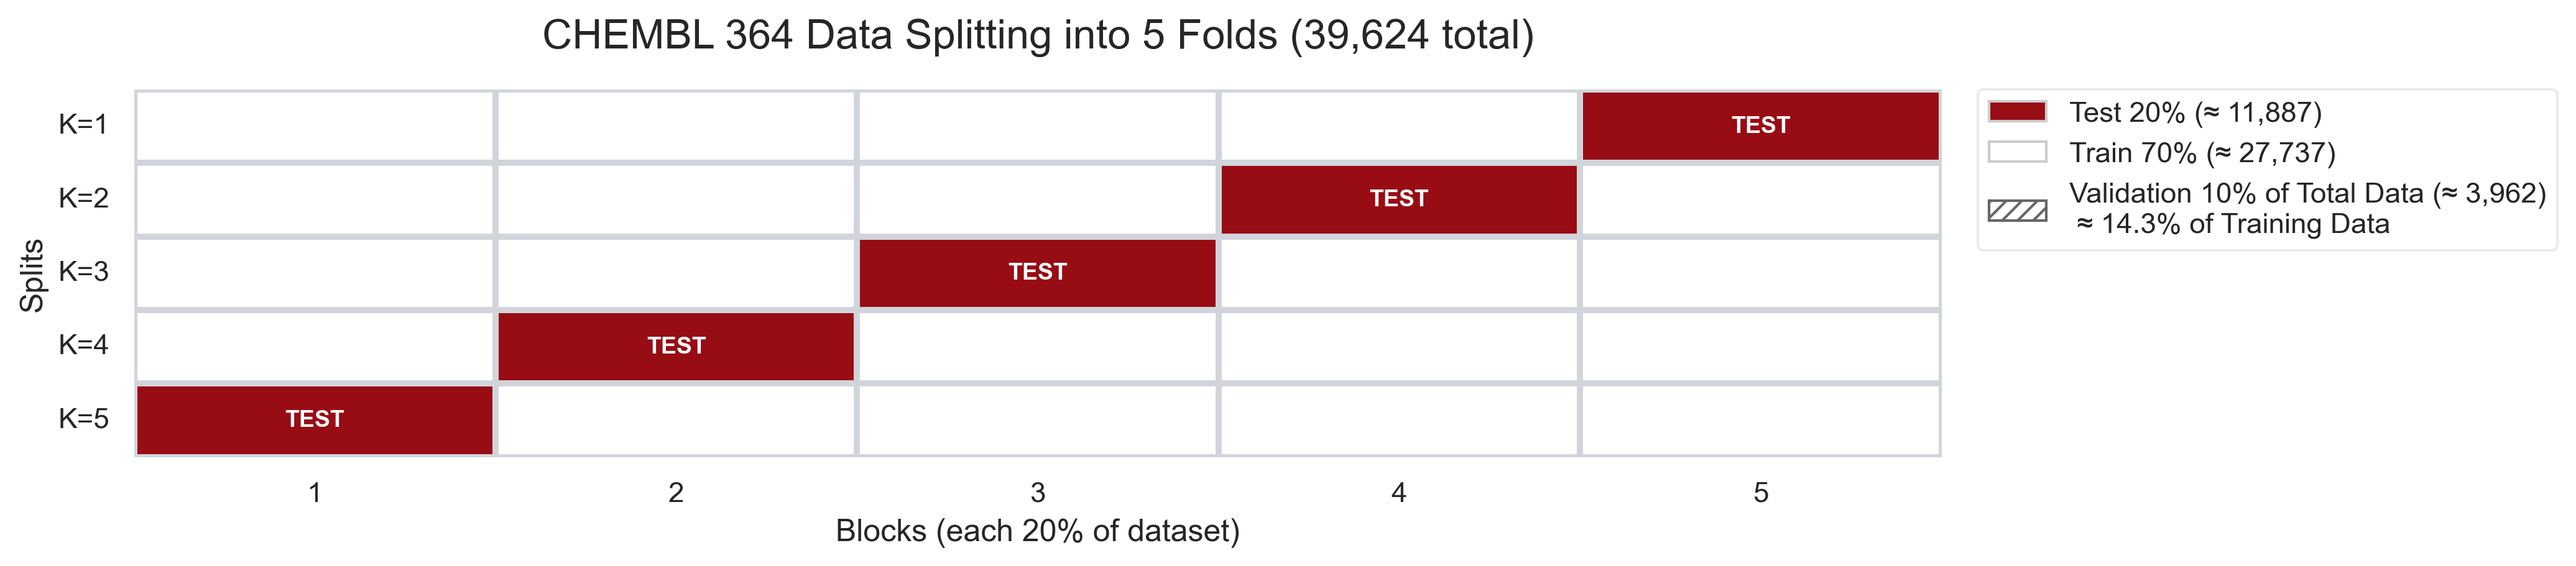
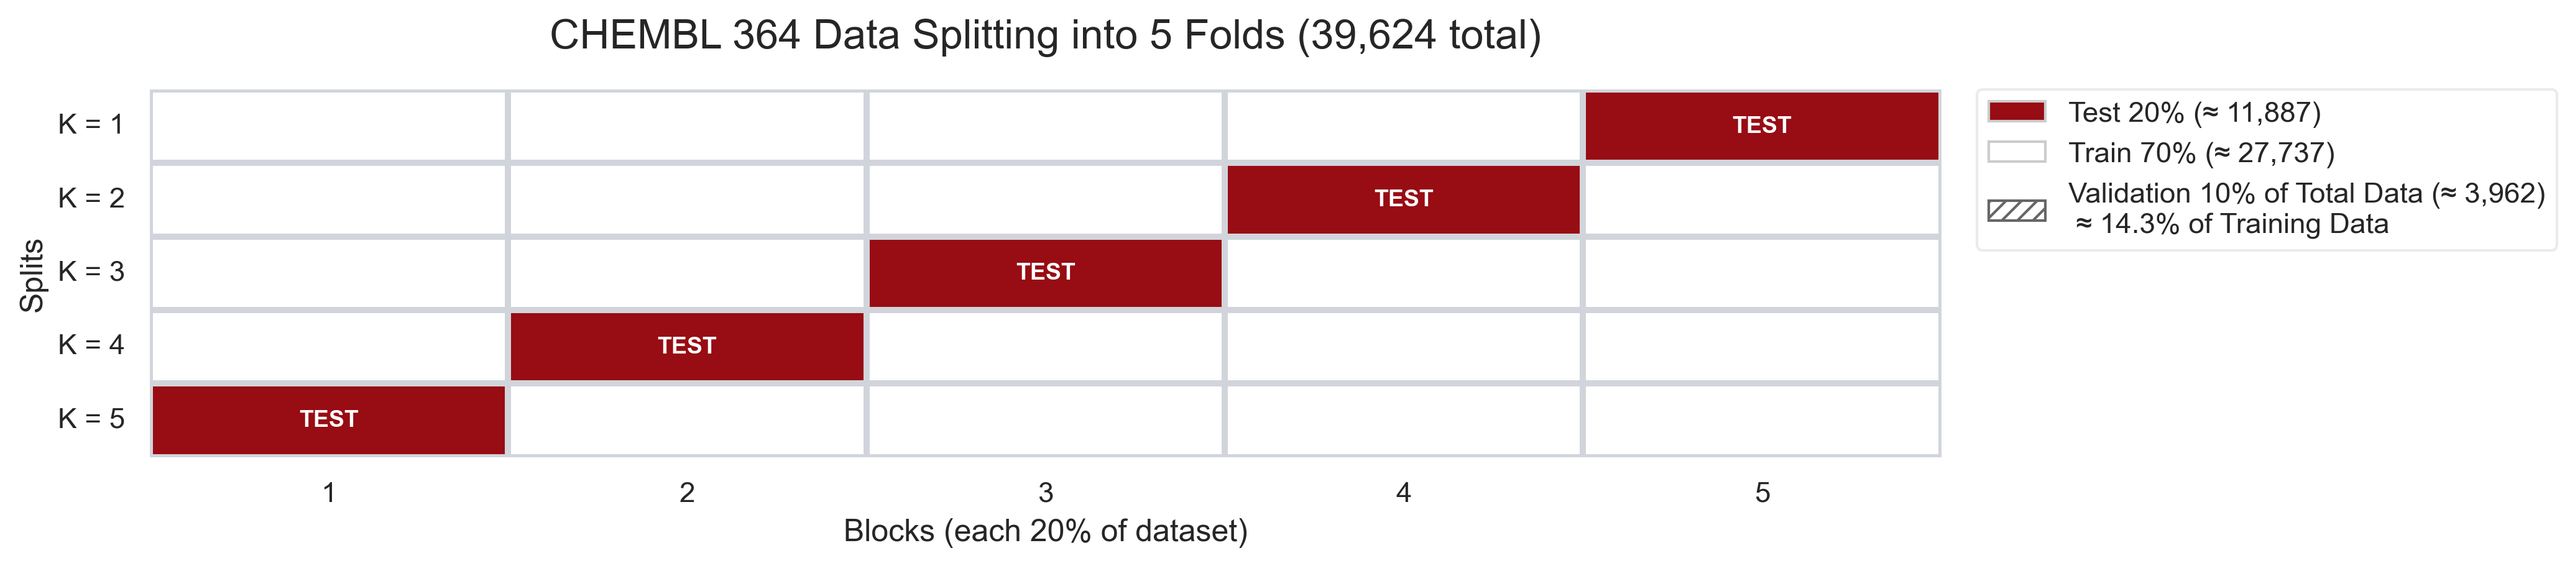
finished splits data visual comment

diff --git a/p1_preprocessing/5 - Data visualizations after splits /splits_data_visualization/splits_data_vis.py b/p1_preprocessing/5 - Data visualizations after splits /splits_data_visualization/splits_data_vis.py
@@ -1,41 +1,38 @@
 """
-Data Split Graphic (Seaborn + Reds palette)
-- 5 splits (K=1..5)
+Data Split Graphic, illustrates:
+- 5 splits (K = 1, 2, 3, 4, 5)
 - Each split shows 5 equal blocks (each 20% of total data)
-- The designated test block shifts from block 5 down to 1 across K=1..5
-- Test uses seaborn 'Reds' (deep red); training blocks are white
-- Validation: 10% of the TRAINING set (subset of train; not shown in the heatmap)
-This script saves a high-res PNG.
-"""
+- The designated test block shifts from block 5 down to 1 across K fold
+- Validation: 10% of the TRAINING set
 
+No requirements
+"""
 import numpy as np
 import matplotlib.pyplot as plt
 import seaborn as sns
 import matplotlib.patches as mpatches
 from matplotlib.colors import ListedColormap
 
-# --- Parameters ---
+# Parametes
 TOTAL = 39_624
 FOLDS = 5
 TRAIN_PCT = 0.70
 TEST_PCT = 0.20
-VAL_FRAC_OF_TRAIN = 0.10  # 10% of the training set
+VAL_FRAC_OF_TRAIN = 0.10 # 10% of the training set
 
-# For K = 1..5, test block indices (1-indexed) are [5,4,3,2,1]
 TEST_BLOCKS = [5, 4, 3, 2, 1]
 
-# --- Build a binary matrix where rows=K, cols=blocks ---
-# 0 = Train (white), 1 = Test (red)
+# Generate a binary matrix where rows=K, cols=blocks 
 M = np.zeros((FOLDS, FOLDS), dtype=int)
 for k_idx, test_block in enumerate(TEST_BLOCKS):
     M[k_idx, test_block - 1] = 1
 
-# --- Plot ---
+# Plot
 sns.set_theme(style="white")
 fig, ax = plt.subplots(figsize=(14, 3.2))
 
 cmap_reds = sns.color_palette("Reds", as_cmap=True)
-test_color = cmap_reds(0.90)  # deep red for test
+test_color = cmap_reds(0.90) # deep red for test
 cmap = ListedColormap(["#ffffff", test_color])
 
 sns.heatmap(
@@ -43,22 +40,22 @@ sns.heatmap(
     cmap=cmap,
     cbar=False,
     linewidths=2,
-    linecolor="#d1d5db",  # visible grid so white cells are distinct
+    linecolor="#d1d5db", # grid lines
     ax=ax,
     vmin=0,
     vmax=1,
 )
 
-# Subtle off-white background so white cells stand out
+# Off-white background
 ax.set_facecolor("#f8fafc")
 
-# Axes labels & ticks
+# Axes labels and ticks
 ax.set_xlabel("Blocks (each 20% of dataset)")
 ax.set_ylabel("Splits")
 ax.set_xticks(np.arange(FOLDS) + 0.5)
-ax.set_xticklabels([str(i) for i in range(1, FOLDS + 1)], rotation=0)
+ax.set_xticklabels([str(i) for i in range(1,FOLDS + 1)], rotation = 0)
 ax.set_yticks(np.arange(FOLDS) + 0.5)
-ax.set_yticklabels([f"K={k}" for k in range(1, FOLDS + 1)], rotation=0)
+ax.set_yticklabels([f"K = {k}" for k in range(1,FOLDS + 1)], rotation = 0)
 
 # Annotate test cells
 for i in range(FOLDS):
@@ -72,14 +69,13 @@ for i in range(FOLDS):
                 va="center",
                 fontsize=9,
                 color="white",
-                fontweight="bold",
-            )
+                fontweight="bold")
 
-# Title & legend numbers
+# Title and legend numbers
 train_n = round(TOTAL * TRAIN_PCT)
-test_n  = TOTAL - train_n
-val_n   = round(TOTAL * VAL_FRAC_OF_TRAIN)              # 10% of TRAINING set
-val_pct_of_total = (val_n / train_n) * 100                  # ≈12% of total
+test_n = TOTAL - train_n
+val_n = round(TOTAL * VAL_FRAC_OF_TRAIN) # 10% of TRAINING set
+val_pct_of_total = (val_n / train_n) * 100 # ≈12% of total
 
 title = f"CHEMBL 364 Data Splitting into 5 Folds ({TOTAL:,} total)"
 ax.set_title(title, loc="center", fontsize=16, pad=16)
@@ -91,13 +87,13 @@ legend_handles = [
     mpatches.Patch(facecolor="#ffffff", edgecolor="#cccccc",
                    label=f"Train {int(TRAIN_PCT*100)}% (≈ {train_n:,})"),
     mpatches.Patch(facecolor="#ffffff", edgecolor="#666666", hatch="////", linewidth=1.0,
-                   label=f"Validation 10% of Total Data (≈ { val_n:,})\n ≈ {val_pct_of_total:.1f}% of Training Data"),
-]
+                   label=f"Validation 10% of Total Data (≈ { val_n:,})\n ≈ {val_pct_of_total:.1f}% of Training Data")]
+
 leg = ax.legend(handles=legend_handles, bbox_to_anchor=(1.02, 1),
                 loc="upper left", borderaxespad=0.0)
 leg.get_frame().set_facecolor("white")
 leg.get_frame().set_edgecolor("#e5e7eb")
 
 plt.tight_layout()
-plt.savefig("/Users/victoriamedina/Thesis_Project/thesis/p1_preprocessing/5 - Data visualizations after splits /splits_data_visualization/splits_data_vis.png", dpi=300, bbox_inches="tight")
+plt.savefig("./p1_preprocessing/5 - Data visualizations after splits /splits_data_visualization/splits_data_vis.png", dpi=300, bbox_inches="tight")
 plt.show()

diff --git a/p1_preprocessing/5 - Data visualizations after splits /loss_dmpnn_early_stopping_visual/loss_ealy_stop_vis.py b/p1_preprocessing/5 - Data visualizations after splits /loss_dmpnn_early_stopping_visual/loss_ealy_stop_vis.py
@@ -1,0 +1,99 @@
+"""
+Chemprop (D-MPNN) Early Stopping Visualization
+
+In Chemprop/D-MPNN, early stopping watches the validation metric. It keeps the best-so-far checkpoint (lowest validation loss 
+or highest val score). If the validation metric doesn't improve in patience epochs, training stops, and the model restores 
+the best checkpoint. Then it will evaluate the test set once with the restored model.
+
+What this figure shows:
+- Training loss (gray, dashed) usually keeps decreasing.
+- Validation loss (red) decreases then rises (overfitting).
+- Best epoch (minimum validation loss) is marked with a red dot and dotted red vline.
+- Training stops later when patience expires.
+- The red shaded region between is the no-improvement window (patience).
+- The test metric is evaluated once at the best epoch (yellow star).
+
+Save: PNG (uncomment SVG for vector).
+"""
+
+
+import numpy as np
+import matplotlib.pyplot as plt
+
+# --------------------------
+# 1) Synthetic demo curves (replace with real logs if available)
+# --------------------------
+rng = np.random.default_rng(7)
+epochs = np.arange(1, 151)
+
+# Training loss: monotonic-ish decay + small noise
+train_loss = 1.5 * np.exp(-epochs / 40) + 0.02 * rng.normal(size=epochs.size) + 0.10
+
+# Validation loss: decays then rises (overfitting)
+val_loss = 1.6 * np.exp(-epochs / 45) + 0.02 * rng.normal(size=epochs.size) + 0.12
+val_loss += 0.0006 * np.maximum(0, (epochs - 85)) ** 1.6  # upturn after ~85
+
+best_idx = int(np.argmin(val_loss))
+best_epoch = int(epochs[best_idx])
+
+# Patience setting (Chemprop-style)
+patience = 15
+stop_epoch = min(epochs[-1], best_epoch + patience)
+
+# A single test measurement at the best epoch (demo value near val best)
+test_at_best = val_loss[best_idx] + 0.03
+
+# --------------------------
+# 2) Plot
+# --------------------------
+# Colors
+train_color = "0.35"          # gray
+val_color   = "#b91c1c"       # red
+star_color  = "#facc15"       # yellow
+shade_color = "#fecaca"       # light red for no-improvement window
+stop_color  = "#6b7280"       # gray for stop vline
+
+plt.rcParams.update({
+    "axes.spines.top": False, "axes.spines.right": False,
+    "axes.grid": True, "grid.alpha": 0.25, "grid.linestyle": "-"
+})
+
+fig, ax = plt.subplots(figsize=(10, 5.2))
+
+# Curves
+ax.plot(epochs, train_loss, linestyle="--", linewidth=2.0,
+        color=train_color, label="Train loss")
+ax.plot(epochs, val_loss, linewidth=2.6, color=val_color,
+        marker="o", markevery=6, markersize=4, label="Validation loss")
+
+# Best epoch markers
+ax.scatter([best_epoch], [val_loss[best_idx]], s=90, facecolor=val_color,
+           edgecolors="white", linewidth=0.8, zorder=5, label="Best (min validation)")
+ax.axvline(best_epoch, color=val_color, linestyle=":", linewidth=1.8)
+
+# No-improvement window (patience) and stop epoch
+ax.axvspan(best_epoch, stop_epoch, color=shade_color, alpha=0.25,
+           label=f"No improvement for {patience} epochs")
+ax.axvline(stop_epoch, color=stop_color, linestyle="--", linewidth=1.8)
+ax.text(stop_epoch + 1, ax.get_ylim()[0] + 0.03*(ax.get_ylim()[1]-ax.get_ylim()[0]),
+        "training stops", color=stop_color, fontsize=9, rotation=90, va="center")
+
+
+# Test at best epoch (single yellow star)
+ax.scatter([best_epoch], [test_at_best], s=200, marker="*",
+           facecolor=star_color, edgecolors="white", linewidth=0.9,
+           zorder=6, label="Test (evaluated at best epoch)")
+
+# Handy labels
+ax.set_xlabel("Epoch")
+ax.set_ylabel("Loss (lower is better)")  # rename/invert if using a higher-is-better metric
+ax.set_title("Chemprop (D-MPNN): Early stopping driven by validation", loc="left")
+
+# Legend
+leg = ax.legend(frameon=True, framealpha=0.96, facecolor="white", loc="upper right")
+leg.get_frame().set_edgecolor("#e5e7eb")
+
+fig.tight_layout()
+# plt.savefig("chemprop_dmpnn_early_stopping_validation_driven.png", dpi=300, bbox_inches="tight")
+# plt.savefig("chemprop_dmpnn_early_stopping_validation_driven.svg", bbox_inches="tight")
+plt.show()
